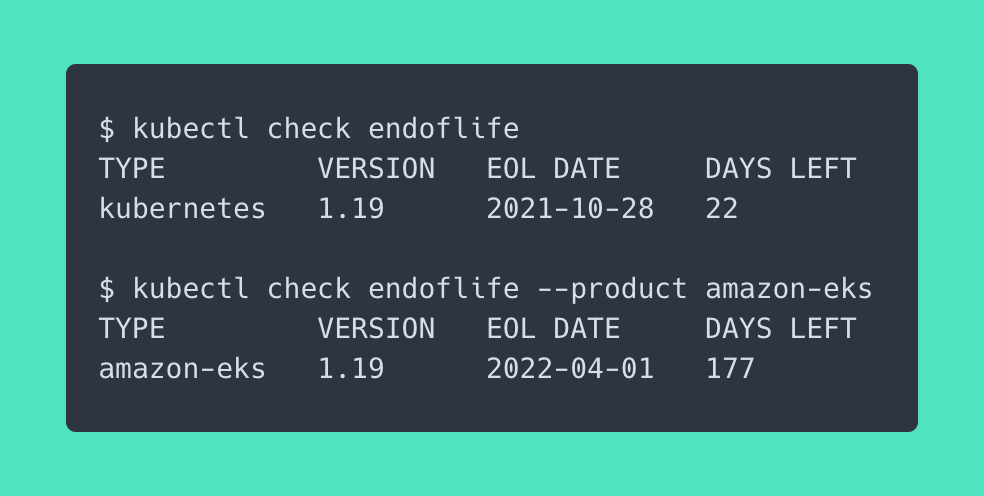
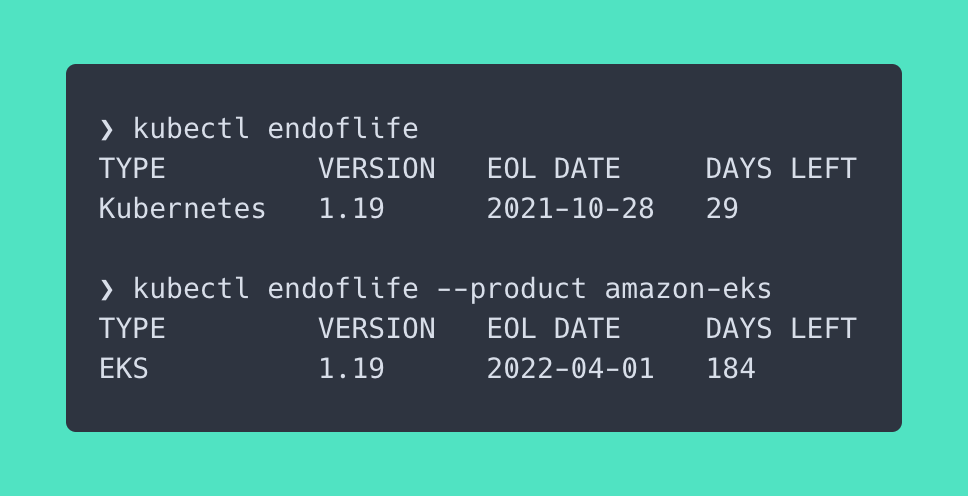
Update docs and preview image

diff --git a/README.md b/README.md
@@ -22,12 +22,12 @@ kubectl endoflife
 
 ## Commands
 
-### kubectl check endoflife
+### kubectl endoflife
 
 This command will check the end of life date for a version using `endoflife.data` and print how much time is left as well as the end of life data. The default option is to check upstream Kubernetes only:
 
 ```shell
-❯ kubectl check endoflife
+❯ kubectl endoflife
 TYPE         VERSION   EOL DATE     DAYS LEFT
 Kubernetes   1.19      2021-10-28   29
 ```
@@ -35,7 +35,7 @@ Kubernetes   1.19      2021-10-28   29
 To change what product is evaluated, use the `--product` flag
 
 ```shell
-❯ kubectl check endoflife --product amazon-eks
+❯ kubectl endoflife --product amazon-eks
 TYPE         VERSION   EOL DATE     DAYS LEFT
 EKS          1.19      2022-04-01   184
 ```
@@ -43,12 +43,12 @@ EKS          1.19      2022-04-01   184
 This command also will exit `0` or `1` depending on the flags set. Exiting `1` means the cluster is within a threshold that the user deems expired. Here are some examples below
 
 ```shell
-❯ kubectl check endoflife --product amazon-eks --expiry-range 200
+❯ kubectl endoflife --product amazon-eks --expiry-range 200
 TYPE         VERSION   EOL DATE     DAYS LEFT
 amazon-eks   1.19      2022-04-01   177
 exit status 1
 
-❯ kubectl check endoflife --product amazon-eks --expiry-range 150
+❯ kubectl endoflife --product amazon-eks --expiry-range 150
 TYPE         VERSION   EOL DATE     DAYS LEFT
 amazon-eks   1.19      2022-04-01   177
 ```
